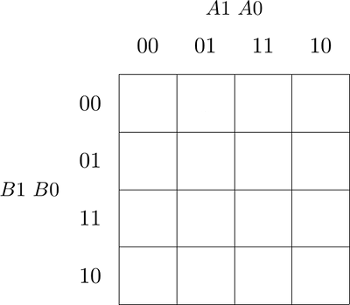
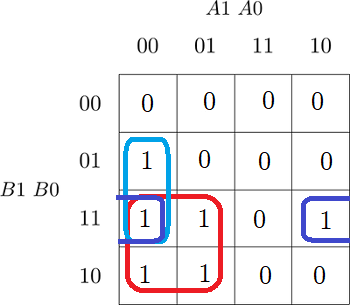
Add K-maps

diff --git a/labs/02-logic/report.md b/labs/02-logic/report.md
@@ -6,11 +6,11 @@
 
    Greater than:
 
-   ![K-maps](images/kmap_empty.png)
+   ![K-maps](images/kmap_greater.png)
 
    Less than:
 
-   ![K-maps](images/kmap_empty.png)
+   ![K-maps](images/kmap_less.png)
 
 2. Mark the largest possible implicants in the K-map and according to them, write the equations of simplified SoP (Sum of the Products) form of the "greater than" function and simplified PoS (Product of the Sums) form of the "less than" function.
 
